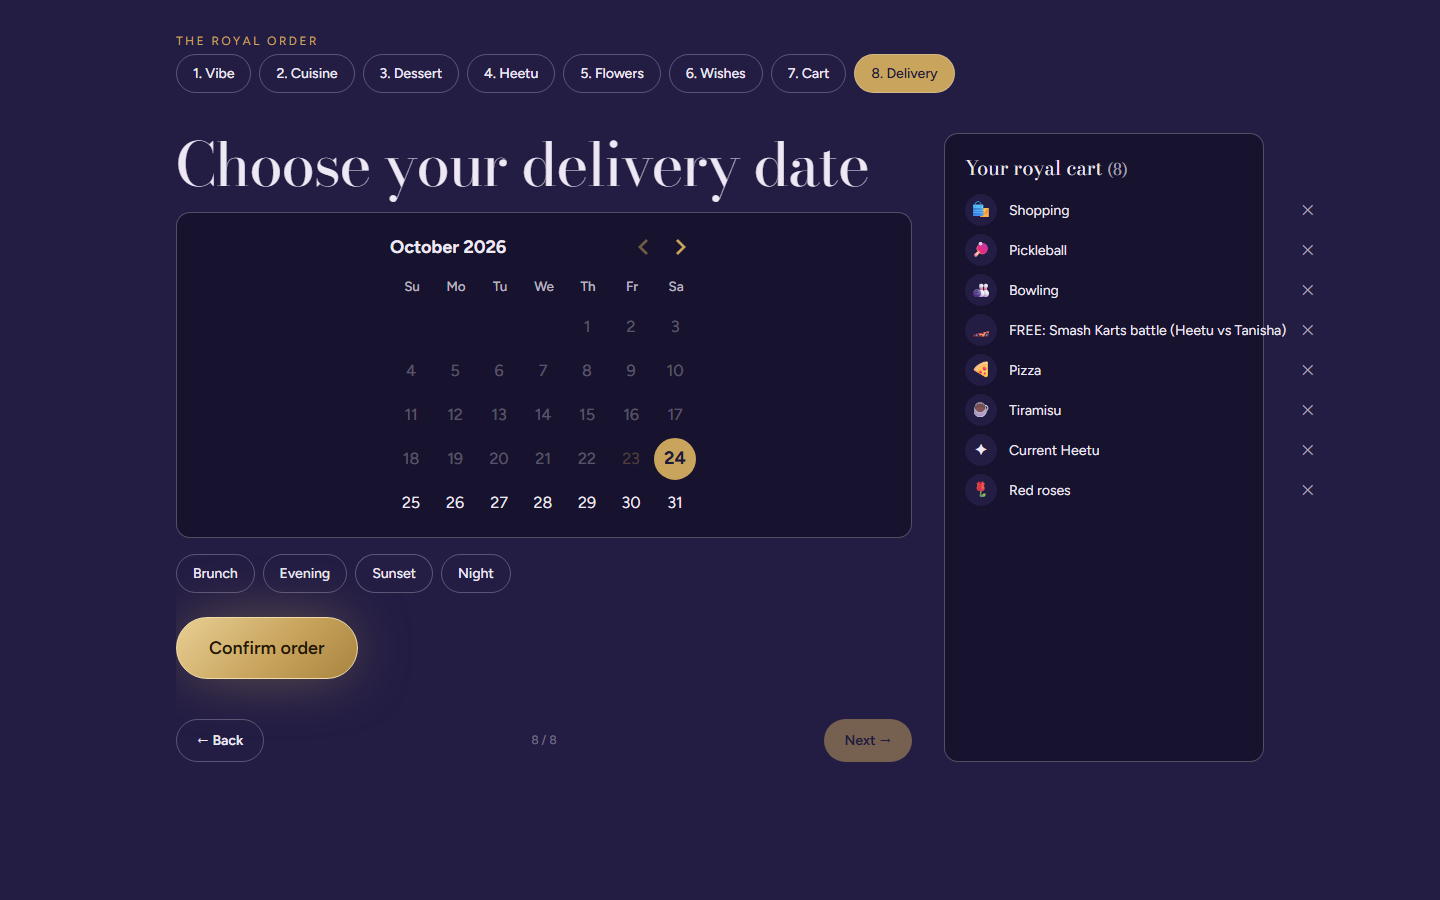
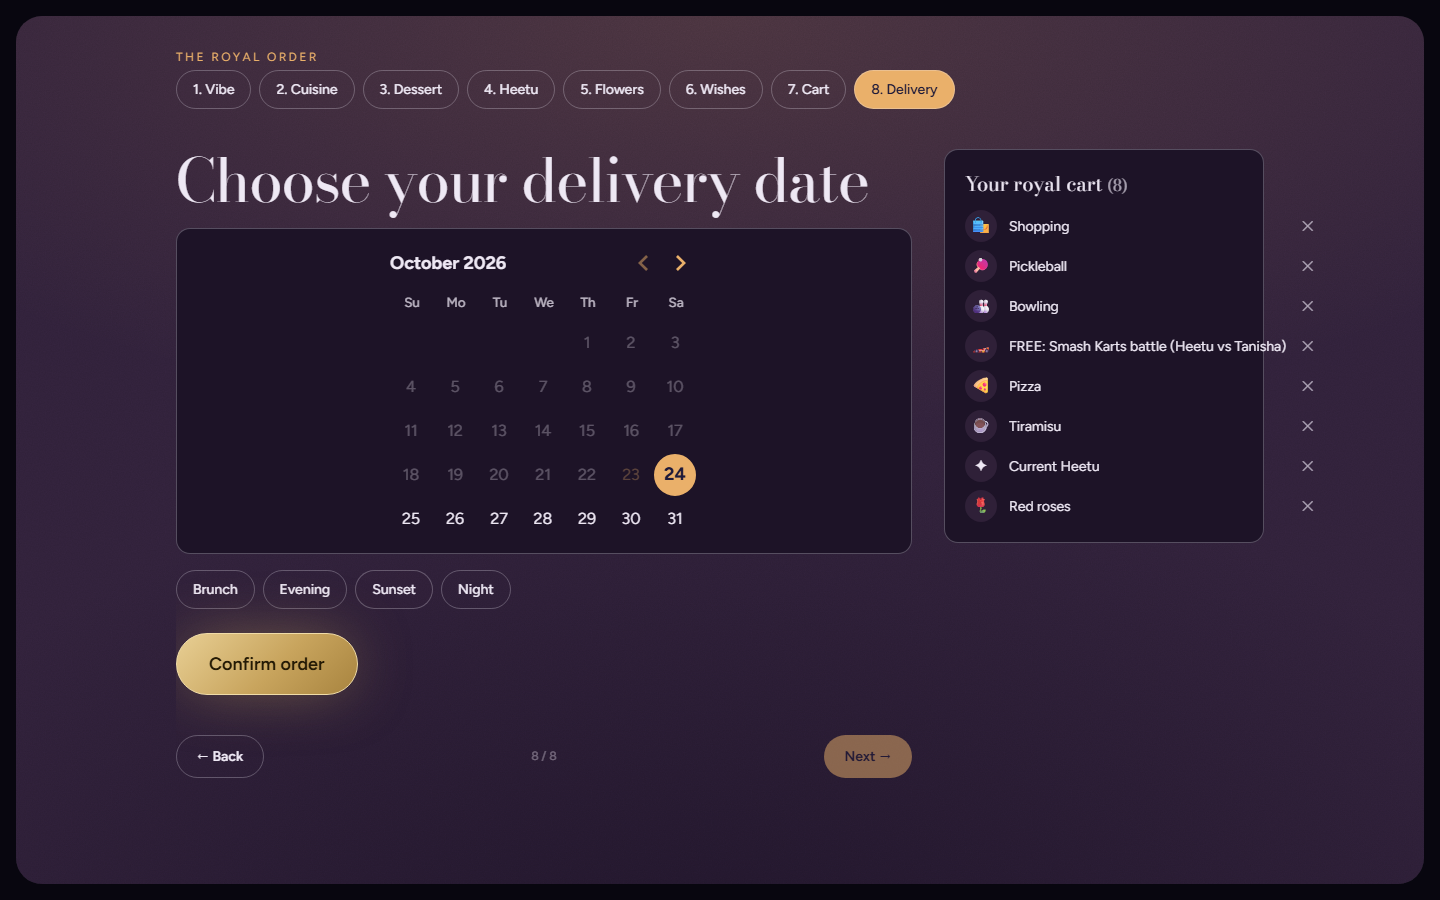
lane 12: planner uses Dreamlit Atlas bezel, stage and amber theme

diff --git a/src/features/planner/DatePlanner.tsx b/src/features/planner/DatePlanner.tsx
@@ -1,10 +1,15 @@
 import { PlannerShell } from './PlannerShell';
 
-/** LANE-12: "The Royal Order". Works standalone; the story mounts it once she says yes. */
+/** LANE-12: "The Royal Order". Works standalone; the story mounts it once she says yes.
+ *  Sits in the Dreamlit Atlas bezel + stage (amber theme = the Date Bazaar's lantern light). */
 export function DatePlanner() {
   return (
-    <section id="planner" aria-label="Plan our date" className="relative min-h-[100svh]" style={{ background: 'var(--stage)' }}>
-      <PlannerShell />
+    <section id="planner" data-theme="amber" aria-label="Plan our date" className="min-h-[100svh] p-2 md:p-4" style={{ background: 'var(--bezel)' }}>
+      <div className="stage [overflow:clip] tex-grain tex-stars min-h-[calc(100svh-1rem)] md:min-h-[calc(100svh-2rem)]">
+        <div className="relative z-10">
+          <PlannerShell />
+        </div>
+      </div>
     </section>
   );
 }
